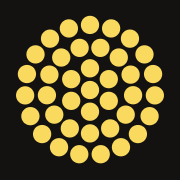
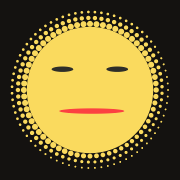
feat(brand): draw the bruhs.ai mark as the dotted Bruh
The mark is now the Bruh itself, with bruhs.svg's eye slits and red mouth,
drawn as a dotted sphere: solid to 78% of the radius, then three concentric
rings of dots that shrink outward and toward the shadow side, lit like the
site's dot Bruh. It reads as the Bruh at a 16px favicon, where an all-halftone
face turned to mud, and the concentric rings keep the outline round.

One source (brand/logo.mjs) writes the site logo and favicon, the web and
desktop sidebar mark and the Mac icon art. The touch icon now pads the mark to
90%, and og.png and apple-touch-icon.png are re-rendered with it.

Assisted-by: Claude:claude-opus-5-5

diff --git a/bruhs-site/brand/touch-icon.html b/bruhs-site/brand/touch-icon.html
@@ -1,4 +1,4 @@
 <!doctype html>
 <!-- Source of public/apple-touch-icon.png (180×180, full bleed; iOS rounds it): run brand/render.sh. -->
-<style>html,body{margin:0;width:180px;height:180px;background:#141210}img{display:block;width:180px;height:180px}</style>
+<style>html,body{margin:0;width:180px;height:180px;background:#141210}img{display:block;width:162px;height:162px;margin:9px}</style>
 <img src="/public/logo.svg" alt="">

diff --git a/bruhs-site/README.md b/bruhs-site/README.md
@@ -16,10 +16,10 @@ The hero mascot is drawn in dithered braille dots by `src/scripts/braille.js`.
 
 ## Brand assets
 
-The bruhs.ai mark is the Bruh's sphere as a circle of yellow dots: a center dot
-and three rings.
-It's separate from the Bruhs mascot (the design system's logo) and reads down
-to a 16px favicon. The app uses it too: sidebar, web favicon and Mac icon.
+The bruhs.ai mark is the Bruh itself, bruhs.svg's face with its eye slits and
+red mouth, drawn as a dotted sphere: solid in the middle, breaking into rings
+of dots toward the rim. It still reads as the Bruh at a 16px favicon. The app
+uses it too: sidebar, web favicon and Mac icon.
 
 ```
 node brand/logo.mjs             # site logo/favicon, bruhs-web bruhs.svg/favicon.svg, Mac AppIcon.svg
